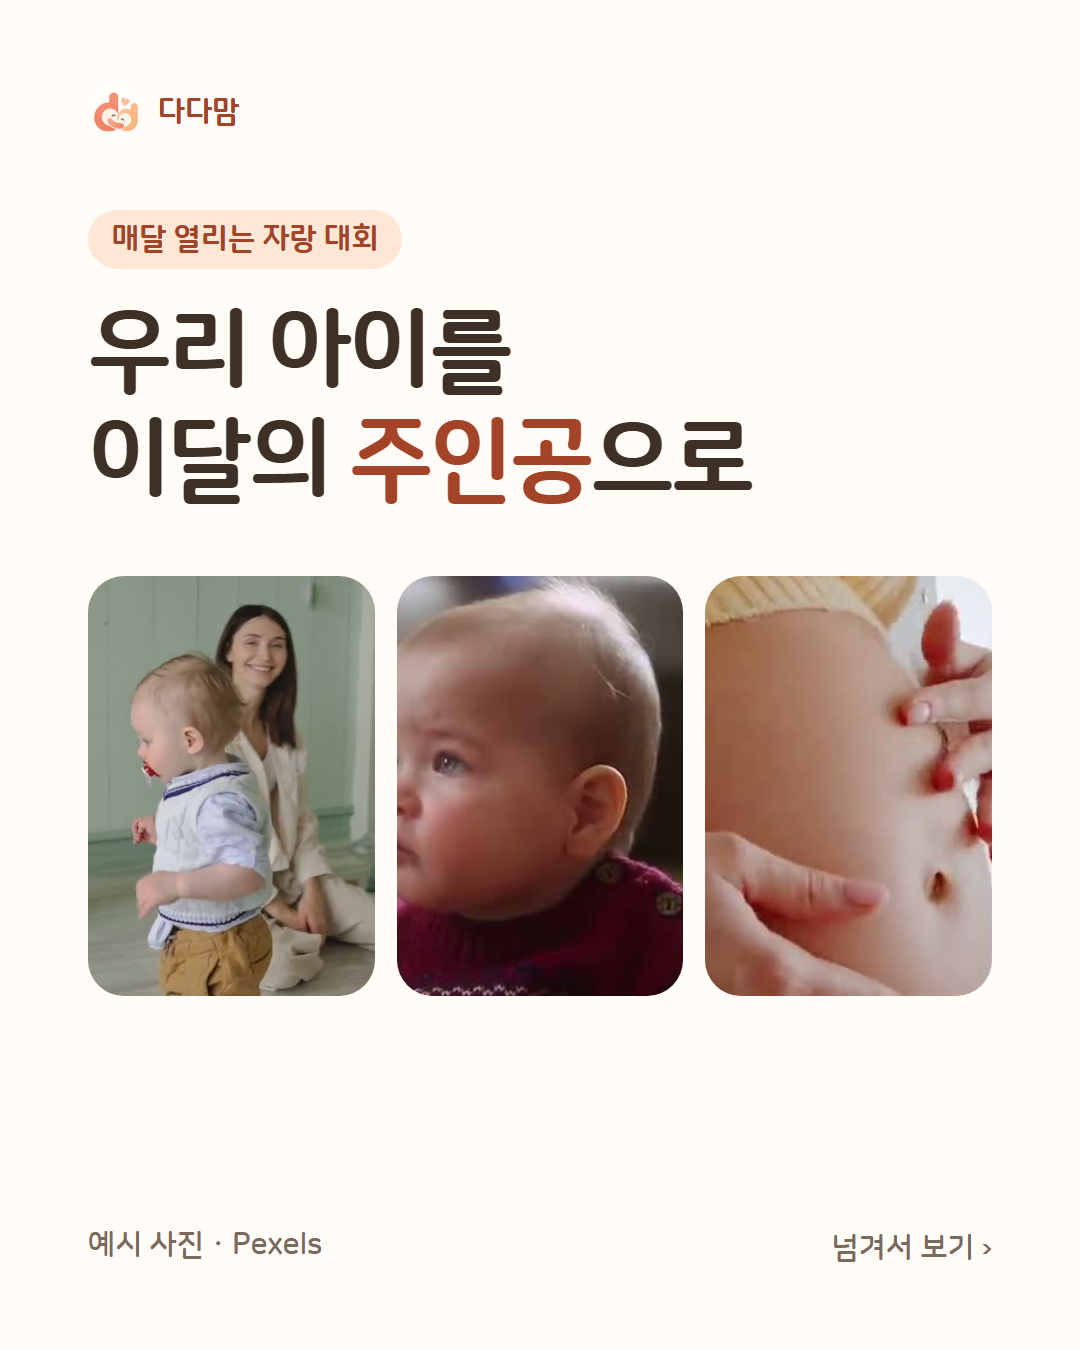
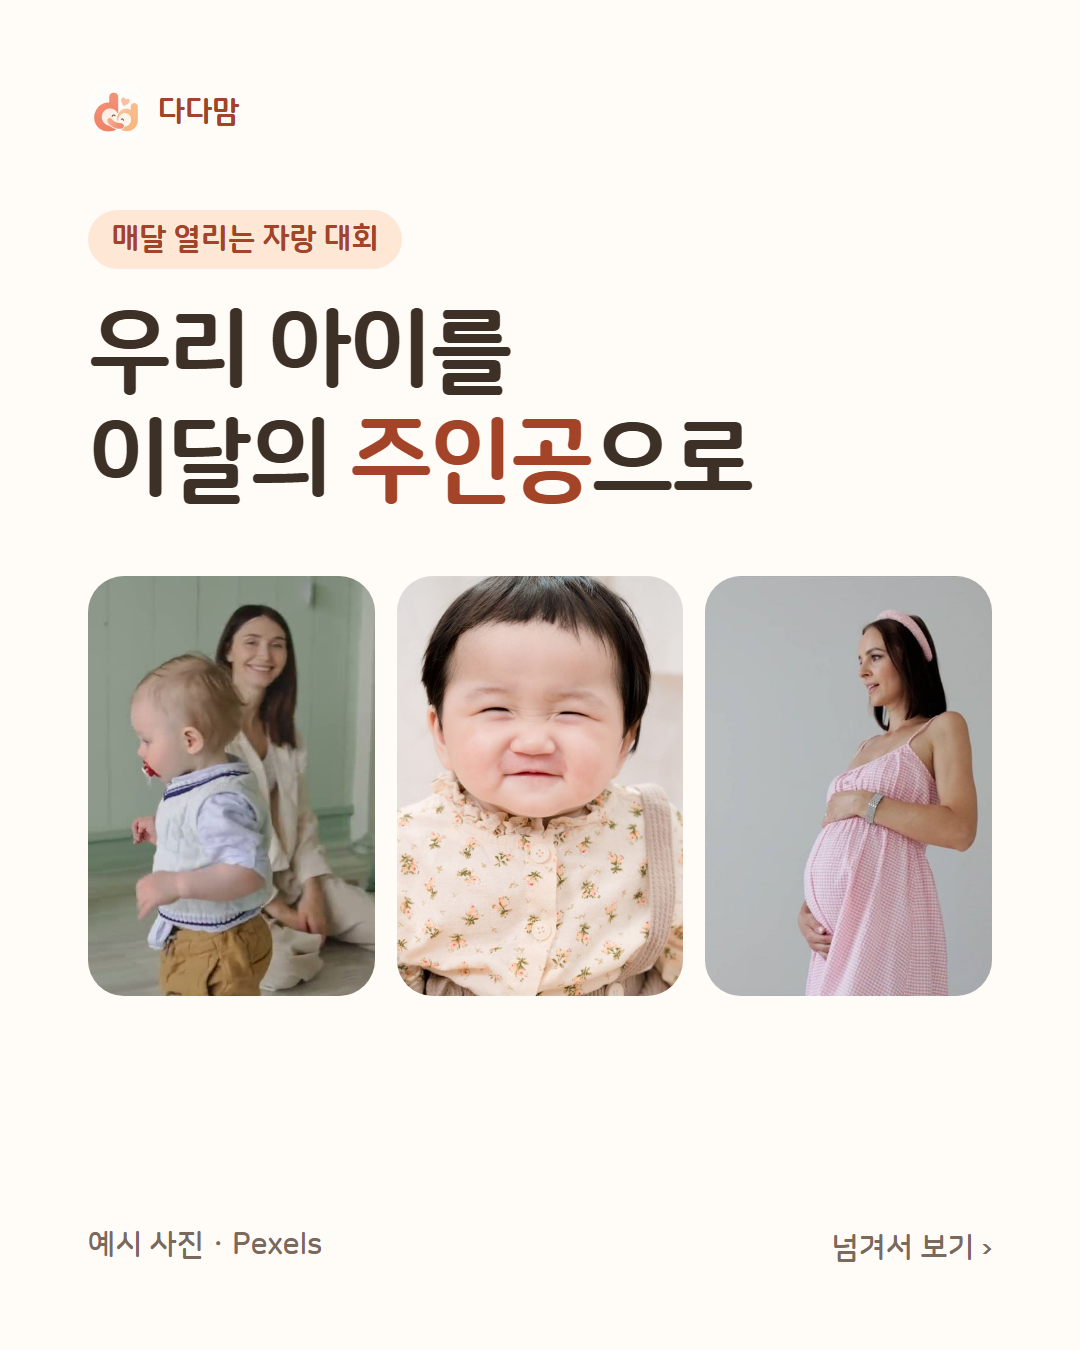
볼살·만삭 예시 사진 교체: 웃는 동양 아기, 외국인 임산부 옆모습 (Pexels)
사장님 요청 — 볼살 대회는 볼살이 빵빵하고 귀여운 한국·중국·일본계 아기, 어른은 외국인으로.
두 대회는 사진만 받는 대회라 jpg 만 바꿈(1080px). 브라우저가 옛 사진을 기억하지 않게 주소에 날짜를 붙임.
당근 광고·인스타 이미지도 새 사진으로 다시 만듦.

Changed region(s): [[0.3667, 0.4044, 0.9167, 0.7467]]

diff --git a/community.html b/community.html
@@ -805,7 +805,7 @@
     var v = c.example_video && /^(https:\/\/|\.\/assets\/)[^\s"<>]+$/.test(c.example_video) ? c.example_video : '';
     var poster = /^\.\/assets\/.+\.mp4$/.test(v) ? v.replace(/\.mp4$/, '.jpg') : '';
     // 예시 영상을 같은 이름으로 바꿔 넣으면 브라우저가 예전 파일을 기억한다 — 바꿀 때마다 이 날짜를 올린다
-    if(poster){ v += '?v=20261027b'; poster += '?v=20261027b'; }
+    if(poster){ v += '?v=20261102'; poster += '?v=20261102'; }
     var li = function(arr, muted){ return arr.map(function(g){ return '<li style="margin:4px 0;' + (muted ? ' color:var(--text2);' : '') + '">' + esc(g) + '</li>'; }).join(''); };
     var photoEx = c.media_rule === 'photo' && poster;   // 사진만 챌린지는 예시도 사진으로
     return '<section class="panel" aria-labelledby="ch-ex-title"><div class="panel-h"><h2 class="display" id="ch-ex-title">' + (c.media_rule === 'photo' ? emIc('📷') : emIc('📹')) + ' 이렇게 찍어 주세요</h2>' + (v ? '<span class="helper">' + (photoEx ? '예시 사진' : '예시 영상') + ' · Pexels</span>' : '') + '</div>' +
@@ -935,7 +935,7 @@
     '🔕':'bell-off','🎪':'ticket','🛝':'ferris-wheel','📍':'map-pin','✏':'pencil','🖼':'image','🏷':'tag','🧸':'package','🏆 ':'trophy','↗':'arrow-up-right','💛':'heart','🗳':'vote',
     '👍':'thumbs-up','📌':'pin','📤':'share-2','👤':'user','🚨':'triangle-alert','📹':'video','🎬':'video','⚖':'scale','📏':'ruler','🍼':'milk','💉':'syringe','📈':'trending-up','🎁':'gift','⚙':'settings' };
   var CH_PHOTO = { firststep:1, crawl:1, halloween:1, bump:1, cheeks:1 };   // assets/challenge/<id>.jpg 가 있는 챌린지
-  function chArtW(c){ return c && CH_PHOTO[c.id] ? '<img src="./assets/challenge/' + c.id + '.jpg" alt="" style="width:100%; height:100%; object-fit:cover; border-radius:inherit;">' : DadamomShared.icon('trophy'); }
+  function chArtW(c){ return c && CH_PHOTO[c.id] ? '<img src="./assets/challenge/' + c.id + '.jpg?v=20261102" alt="" style="width:100%; height:100%; object-fit:cover; border-radius:inherit;">' : DadamomShared.icon('trophy'); }
   function emIc(e){ var n = EM_IC[e]; return n ? DadamomShared.icon(n) : ''; }
   function stageEmoji(stage){ return DadamomShared.icon(stage === 'pregnant' || stage === 'parenting' ? 'baby' : 'user'); }
   function roleLabel(r){ return r === 'mom' ? '맘' : r === 'dad' ? '아빠' : r === 'guardian' ? '보호자' : '맘·아빠'; }

diff --git a/index.html b/index.html
@@ -1069,7 +1069,7 @@
     var u = new URL(location.href); u.searchParams.delete('entry');
     history.replaceState(null, '', u.pathname + u.search + (u.hash || '#challenge'));
   })();
-  function chArt(c, photo){ return photo && c && CH_PHOTO[c.id] ? '<img src="./assets/challenge/' + c.id + '.jpg" alt="" style="width:100%; height:100%; object-fit:cover;">' : ic('trophy'); }
+  function chArt(c, photo){ return photo && c && CH_PHOTO[c.id] ? '<img src="./assets/challenge/' + c.id + '.jpg?v=20261102" alt="" style="width:100%; height:100%; object-fit:cover;">' : ic('trophy'); }
   var SUPABASE_URL = ENV.SUPABASE_URL || '';
   var SUPABASE_KEY = ENV.SUPABASE_ANON_KEY || '';
   if(!SUPABASE_URL || !SUPABASE_KEY){
@@ -2456,7 +2456,7 @@
     var v = c.example_video && /^(https:\/\/|\.\/assets\/)[^\s"<>]+$/.test(c.example_video) ? c.example_video : '';
     var poster = /^\.\/assets\/.+\.mp4$/.test(v) ? v.replace(/\.mp4$/, '.jpg') : '';
     // 예시 영상을 같은 이름으로 바꿔 넣으면 브라우저가 예전 파일을 기억한다 — 바꿀 때마다 이 날짜를 올린다
-    if(poster){ v += '?v=20261027b'; poster += '?v=20261027b'; }
+    if(poster){ v += '?v=20261102'; poster += '?v=20261102'; }
     var photoEx = c.media_rule === 'photo' && poster;   // 사진만 챌린지는 예시도 사진으로
     return '<section class="card col" aria-label="이렇게 찍어 주세요" style="gap:12px; padding:16px;">' +
       '<div class="row" style="align-items:baseline; justify-content:space-between; gap:8px;"><b class="display" style="font-size:16px;">' + ic(c.media_rule === 'photo' ? 'camera' : 'video') + ' 이렇게 찍어 주세요</b>' + (v ? '<span class="helper">' + (photoEx ? '예시 사진' : '예시 영상') + ' · Pexels</span>' : '') + '</div>' +
